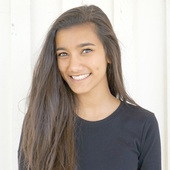
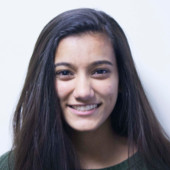
Update team pictures

diff --git a/client/views/team/team.js b/client/views/team/team.js
@@ -21,7 +21,7 @@ Controller('team', {
 				firstName: "Zooey",
 				lastName: "Nguyen",
 				position: "Outreach Team",
-				imageLink: "img/zooey.png"
+				imageLink: "img/zooey.jpg"
 			},
 			{
 				firstName: "An",
